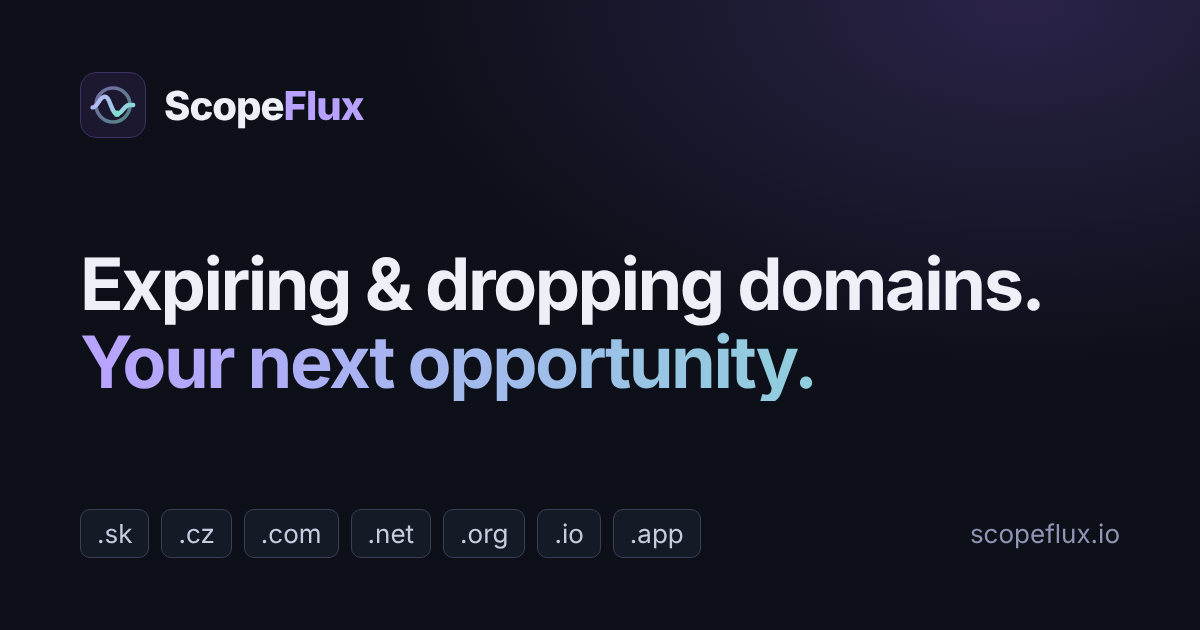
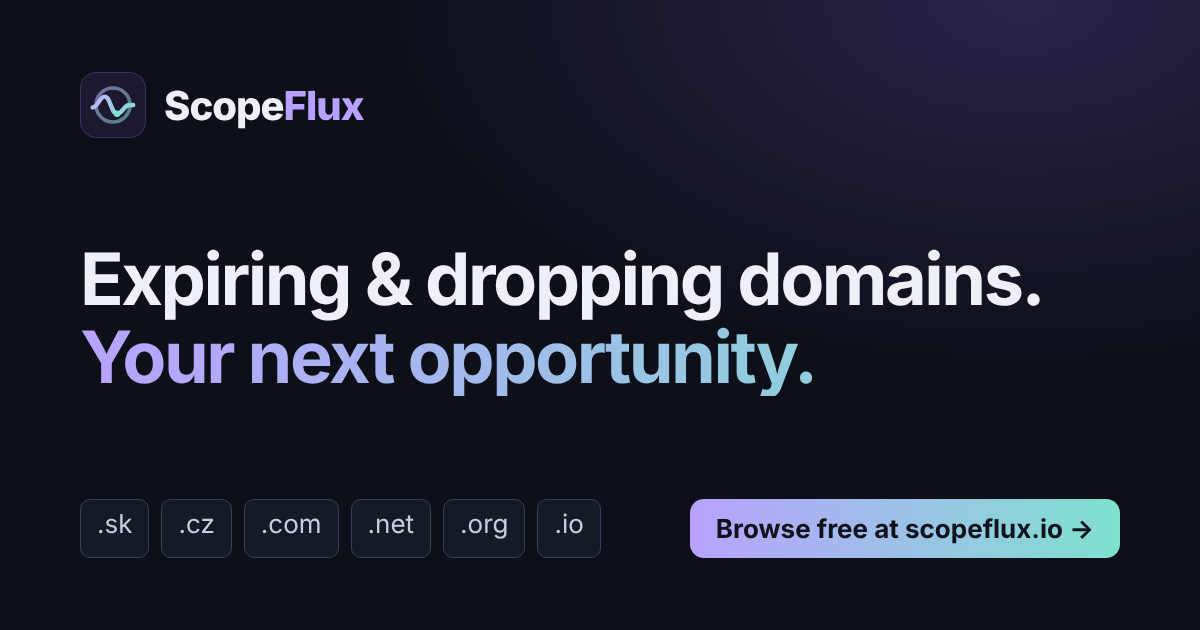
Shorter descriptions and a call to action on the share image
opengraph.xyz flagged 213-character descriptions and a share image
without a call to action.

- Meta descriptions are now 135–147 characters (Google shows ~155).
- Link previews (og:description, twitter:description) use a separate,
  shorter text of at most 125 characters per page.
- og-image.png gains a "Browse free at scopeflux.io →" button; the URL
  carries ?v=2 so social sites fetch the new image.
- Tests keep descriptions within 155 and social texts within 125.

Claude-Session: https://claude.ai/code/session_01JWaYYgD7WDmsEe5Ly3YZJf

diff --git a/lib/seo.ts b/lib/seo.ts
@@ -5,29 +5,32 @@ import type {Metadata} from 'next';
 export const SITE_URL = 'https://scopeflux.io';
 export const SITE_NAME = 'ScopeFlux';
 export const SITE_DESCRIPTION =
-  'Find expiring and dropping domain names before they are released. Browse upcoming .sk, .cz, .com, .net, .org, .io and .app releases with dates and sources, check any domain’s expiration date, and keep a watchlist.';
+  'Find expiring and dropping domains before they are released. Upcoming .sk, .cz, .com, .net, .org, .io and .app releases with dates and sources.';
 
-const OG_IMAGE = {url: '/og-image.png', width: 1200, height: 630, alt: 'ScopeFlux — expiring and dropping domains'};
+// ?v= makes Facebook, X and LinkedIn fetch a changed image instead of a cached one.
+const OG_IMAGE = {url: '/og-image.png?v=2', width: 1200, height: 630, alt: 'ScopeFlux — expiring and dropping domains'};
 
-type PageSeo = {path: string; title: string; description: string};
+// description: search results (Google shows ~155 characters).
+// social: link previews on Facebook, X, LinkedIn (~125 characters before they cut it).
+type PageSeo = {path: string; title: string; description: string; social: string};
 
 export const PAGE_SEO = {
-  discover: {path: '/', title: 'ScopeFlux — Expiring & dropping domains', description: SITE_DESCRIPTION},
-  lookup: {path: '/check-domain', title: 'Check a domain’s expiration date — ScopeFlux', description: 'Look up any domain name: registration status, expiration date and, where a source lists it, the expected release date. Uses public registry data (RDAP).'},
-  sources: {path: '/sources', title: 'Data sources & coverage — ScopeFlux', description: 'Where ScopeFlux gets its release dates: the CZ.NIC auction list for .cz, Backorder.sk for .sk, Dynadot for .com, .net, .org, .io and .app, and RDAP for domain checks. What each source covers and its limits.'},
-  about: {path: '/about', title: 'About ScopeFlux — find your next domain name', description: 'ScopeFlux brings upcoming domain releases into one place, so you can discover names, compare extensions and see when a domain may become available.'},
-  privacy: {path: '/privacy', title: 'Privacy — ScopeFlux', description: 'What ScopeFlux stores and why: no analytics or tracking cookies, optional sign-in for the watchlist, and how to ask for your data to be deleted.'},
-  contact: {path: '/contact', title: 'Contact — ScopeFlux', description: 'Questions, corrections to a listing or data requests: write to hello@scopeflux.io.'},
+  discover: {path: '/', title: 'ScopeFlux — Expiring & dropping domains', description: SITE_DESCRIPTION, social: 'Upcoming domain releases for .sk, .cz, .com, .net, .org, .io and .app, with dates, sources and a free watchlist.'},
+  lookup: {path: '/check-domain', title: 'Check a domain’s expiration date — ScopeFlux', description: 'Check any domain’s registration status and expiration date, plus its expected release date when a source lists it. Uses public RDAP data.', social: 'Look up any domain: registration status, expiration date and expected release date.'},
+  sources: {path: '/sources', title: 'Data sources & coverage — ScopeFlux', description: 'Where ScopeFlux gets its release dates: CZ.NIC auctions for .cz, Backorder.sk for .sk, Dynadot for .com, .net, .org, .io and .app, and RDAP.', social: 'Every release date has a source: CZ.NIC, Backorder.sk, Dynadot and RDAP. What each covers and its limits.'},
+  about: {path: '/about', title: 'About ScopeFlux — find your next domain name', description: 'ScopeFlux brings upcoming domain releases into one place, so you can discover names, compare extensions and see when a domain may become available.', social: 'Upcoming domain releases in one place: discover names, compare extensions and see when a domain may free up.'},
+  privacy: {path: '/privacy', title: 'Privacy — ScopeFlux', description: 'What ScopeFlux stores and why: no analytics or tracking cookies, optional sign-in for the watchlist, and how to ask for your data to be deleted.', social: 'No analytics or tracking cookies. What ScopeFlux stores, and how to have it deleted.'},
+  contact: {path: '/contact', title: 'Contact — ScopeFlux', description: 'Questions, corrections to a listing, ideas or data requests for ScopeFlux, the expiring-domains catalogue: write to hello@scopeflux.io.', social: 'Questions, corrections or data requests: hello@scopeflux.io.'},
 } satisfies Record<string, PageSeo>;
 
 export function pageMetadata(page: keyof typeof PAGE_SEO): Metadata {
-  const {path, title, description} = PAGE_SEO[page];
+  const {path, title, description, social} = PAGE_SEO[page];
   return {
     title: {absolute: title},
     description,
     alternates: {canonical: path},
     // Next.js replaces (not merges) these objects per page, so each page carries them in full.
-    openGraph: {title, description, url: path, type: 'website', siteName: SITE_NAME, locale: 'en_GB', images: [OG_IMAGE]},
-    twitter: {card: 'summary_large_image', title, description, images: [{url: OG_IMAGE.url, alt: OG_IMAGE.alt}]},
+    openGraph: {title, description: social, url: path, type: 'website', siteName: SITE_NAME, locale: 'en_GB', images: [OG_IMAGE]},
+    twitter: {card: 'summary_large_image', title, description: social, images: [{url: OG_IMAGE.url, alt: OG_IMAGE.alt}]},
   };
 }
